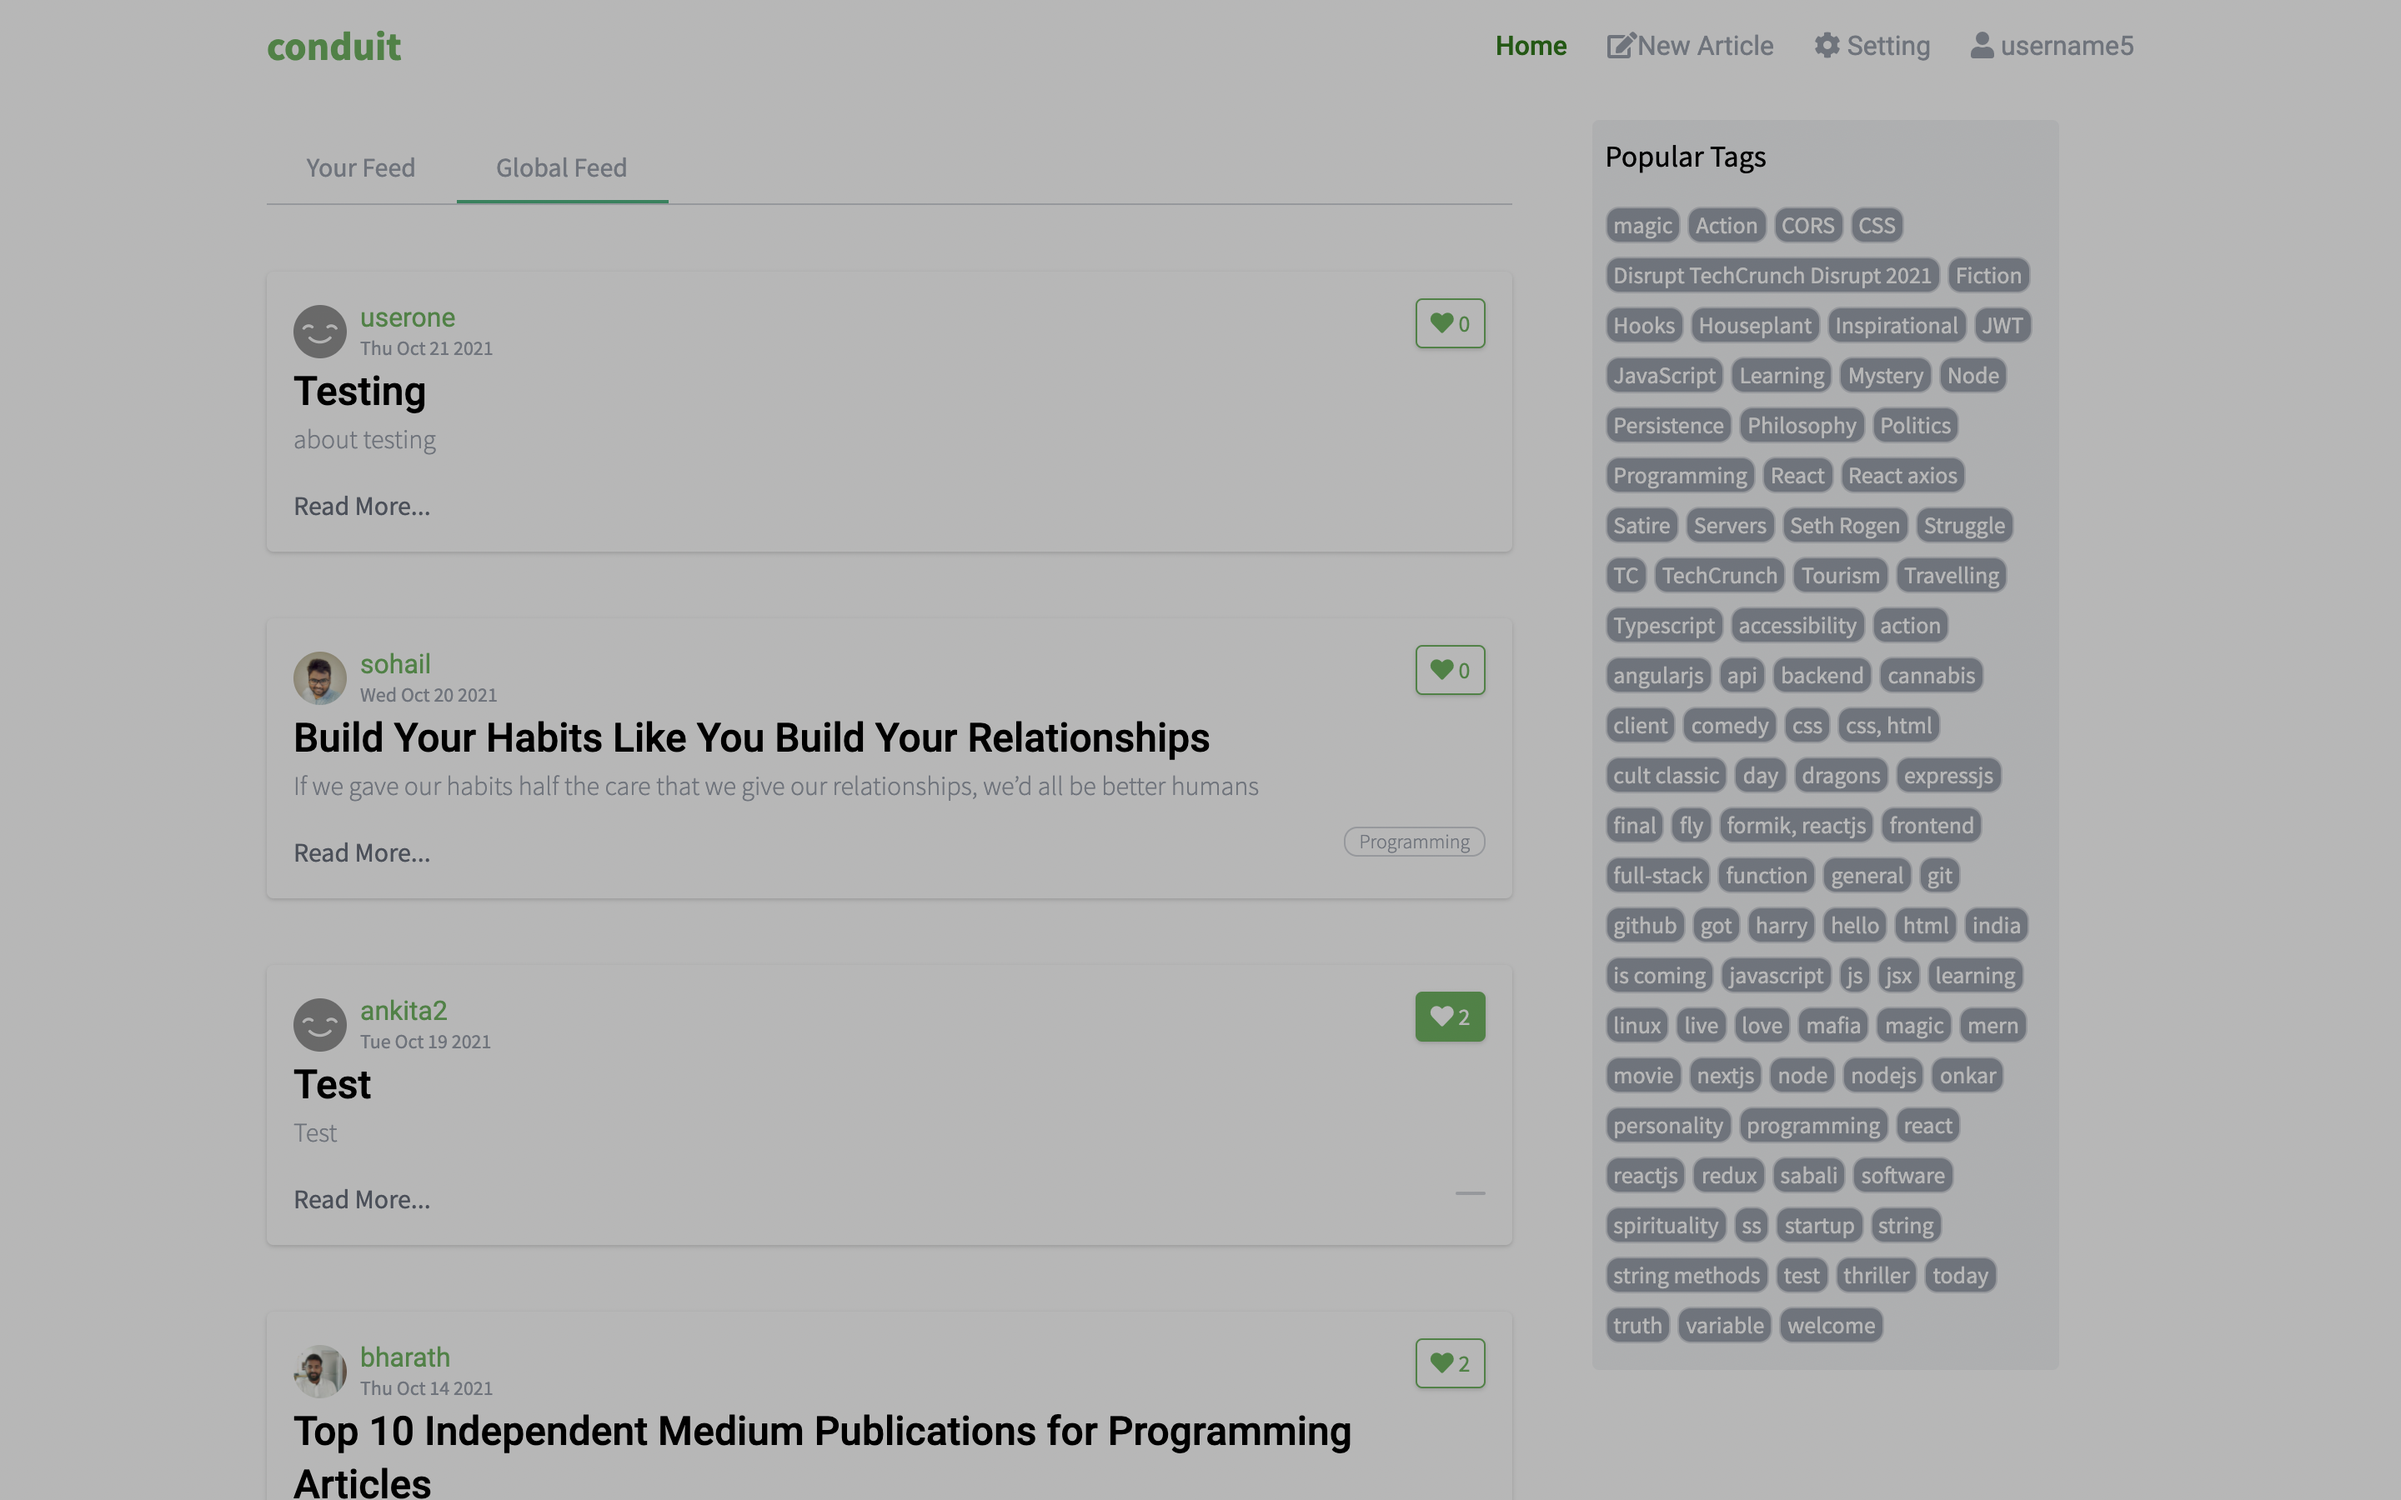
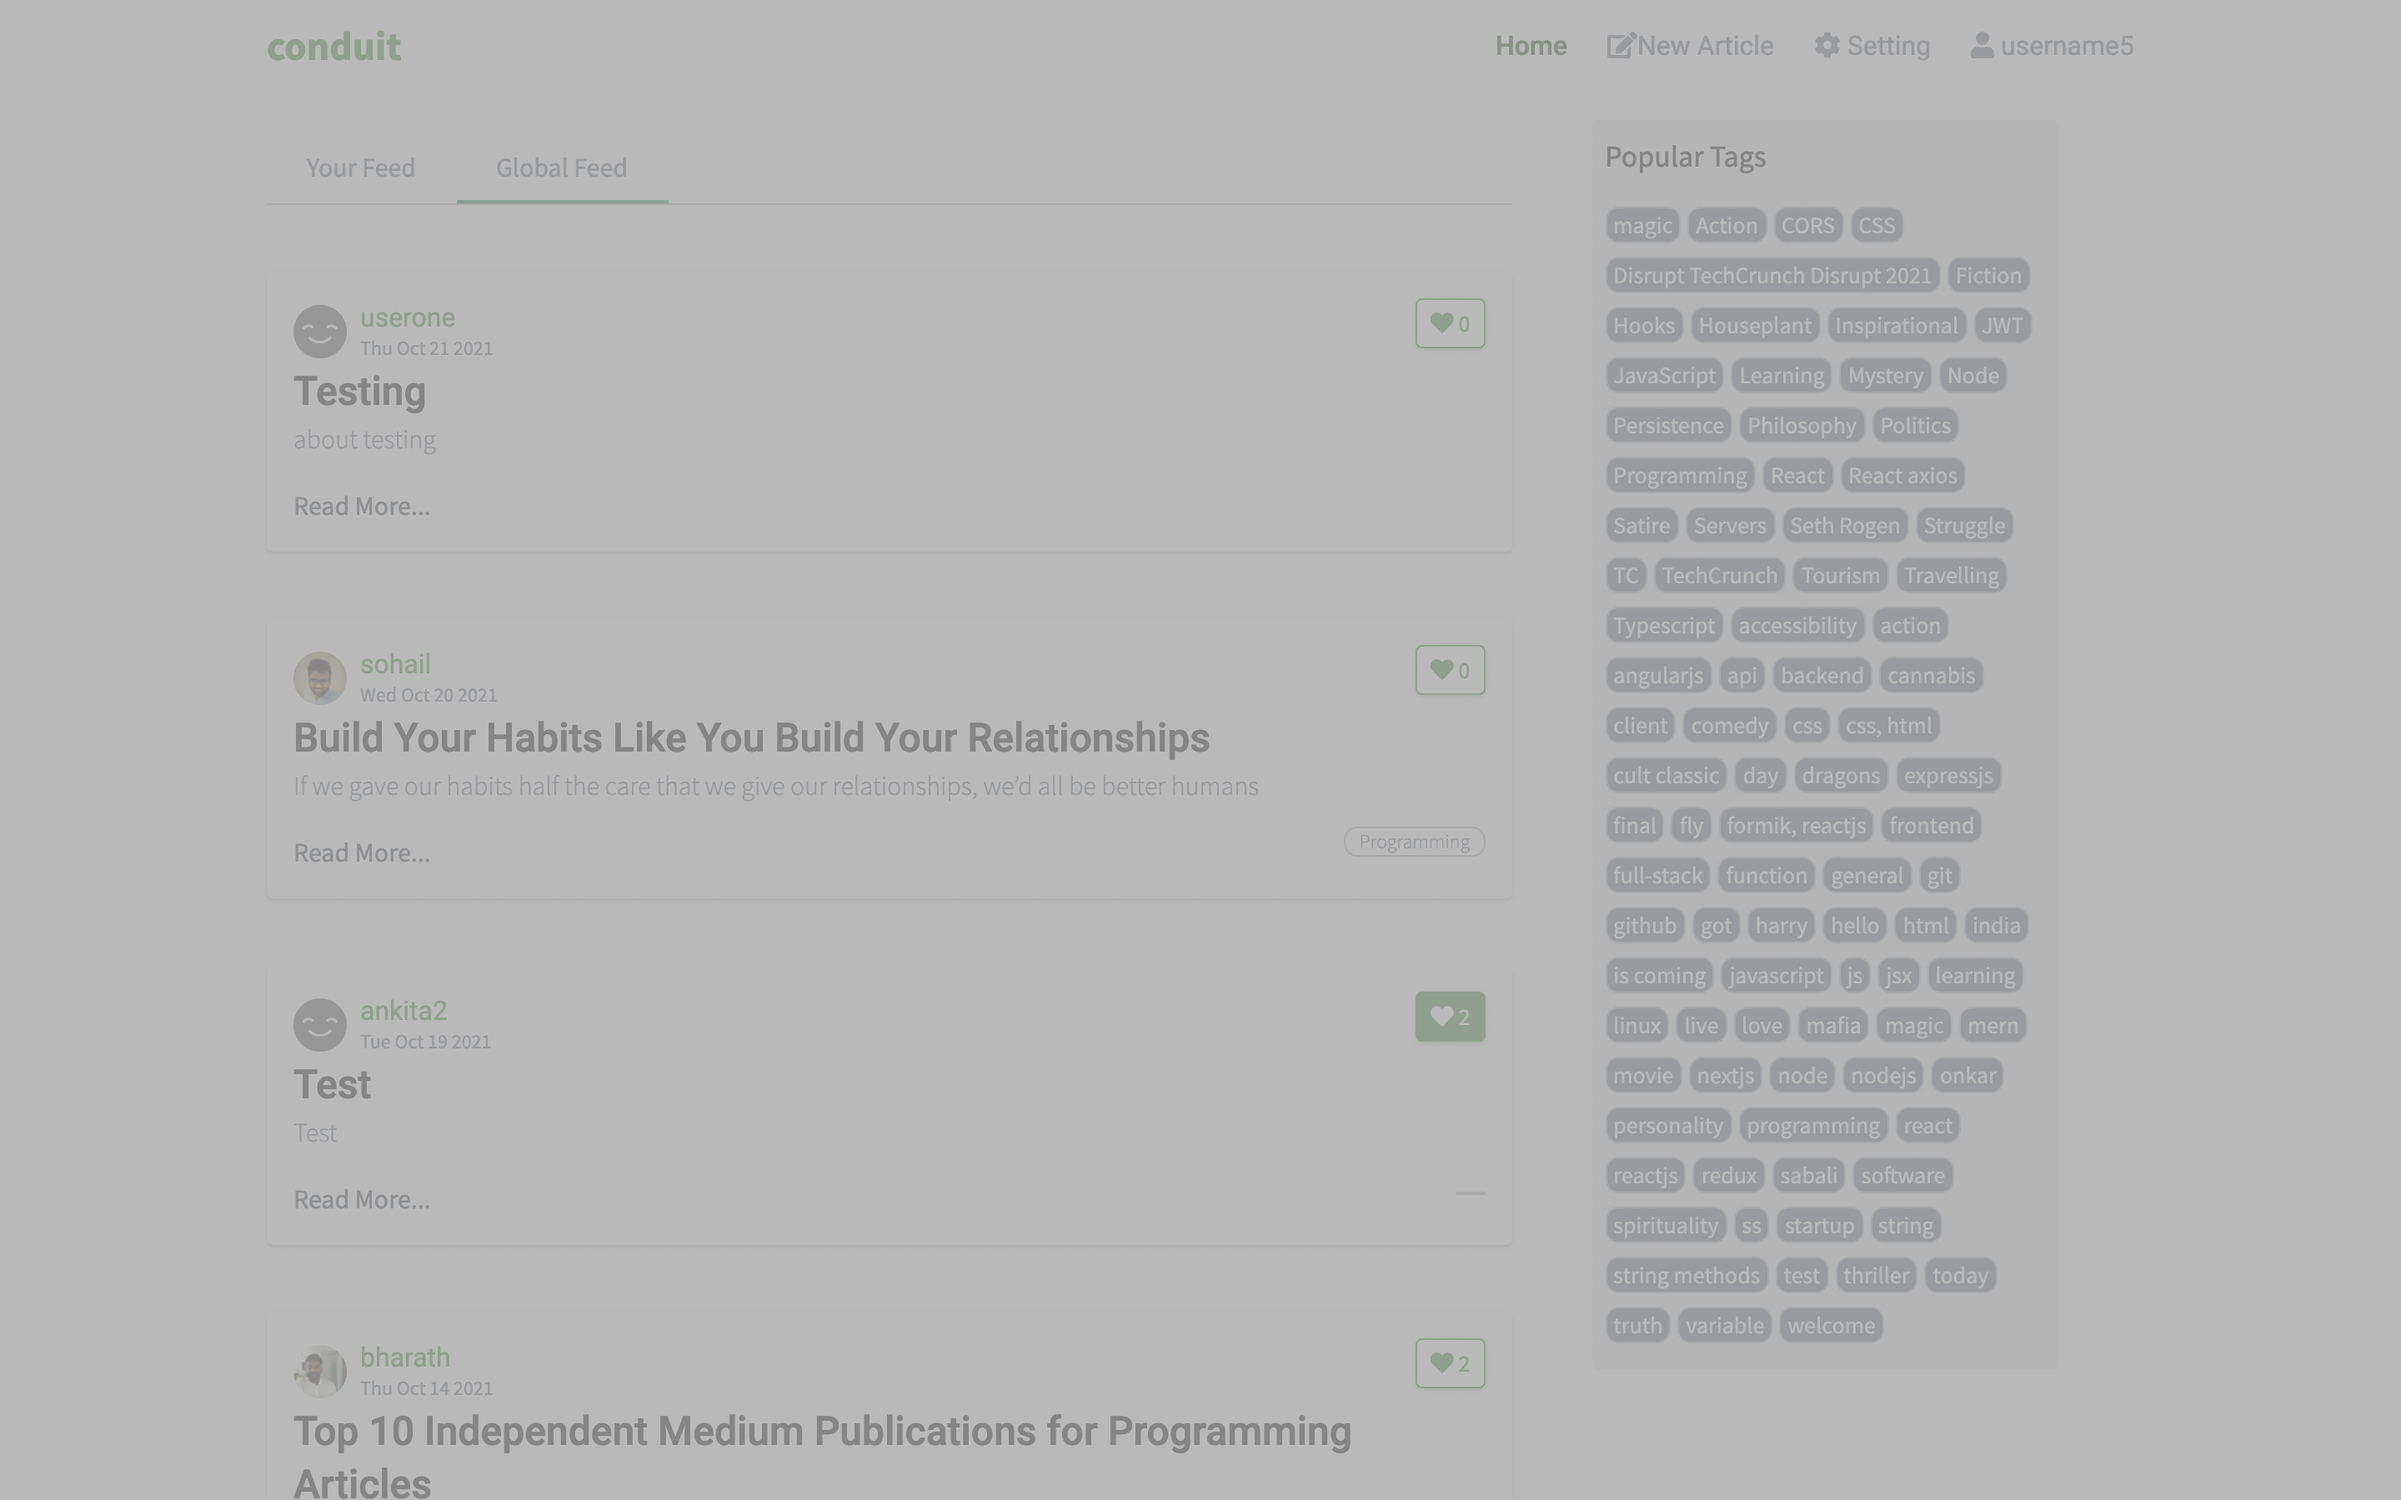
refactore css code

diff --git a/src/stylesheets/_index.scss b/src/stylesheets/_index.scss
@@ -51,6 +51,7 @@ header {
     }
     h5 {
       color: white;
+      font-weight: 300;
       margin: {
         top: 10px;
         bottom: 40px;
@@ -231,7 +232,9 @@ header {
   }
   article {
     position: relative;
-    box-shadow: 3px 3px 50px 1px rgba(0, 0, 0, 0.5);
+    z-index: 2;
+    box-shadow: rgba(100, 100, 111, 0.2) 0px 7px 29px 0px;
+    min-height: 465px;
     padding: {
       top: 100px;
       left: 100px;
@@ -246,11 +249,11 @@ header {
       position: absolute;
       right: 0;
       top: -40px;
-      color: whitesmoke;
+      color: white;
       transition: all 0.5s;
     }
     h2 {
-      color: whitesmoke;
+      color: white;
       text-align: left;
       font-size: 3.2rem;
       position: relative;
@@ -265,19 +268,19 @@ header {
     }
 
     .tag {
-      border: 1px solid $primary-color;
+          background: linear-gradient(rgb(230, 100, 74), rgb(230, 52, 17));
+      color: white;
       padding: 4px;
       margin-right: 0.2rem;
-      color: $primary-color;
       display: inline-block;
       position: relative;
       z-index: 2;
     }
 
-    &:hover .tag {
-      color: $secondary-color;
-      border: 1px solid $secondary-color;
-    }
+    // &:hover .tag {
+    //   color: $secondary-color;
+    //   border: 1px solid $primary-bg;
+    // }
     &:after {
       content: '';
       position: absolute;
@@ -289,7 +292,7 @@ header {
     }
     &:hover:after {
       width: 100%;
-      background: rgba(36, 53, 103, 0.8);
+      background: rgba(37,59,108,0.9);
     }
     &:hover h1 {
       top: -100px;
@@ -339,7 +342,7 @@ header {
       }
 
       &:hover {
-        color: #fff;
+        color: white;
       }
 
       &:hover:after {

diff --git a/src/components/Projects.js b/src/components/Projects.js
@@ -13,6 +13,7 @@ function Projects(props) {
               'background-repeat': 'no-repeat',
               'background-position': 'center',
               'background-size': 'cover',
+            //   opacity:0.8
             }}
           >
             <h1>{index + 1}</h1>
